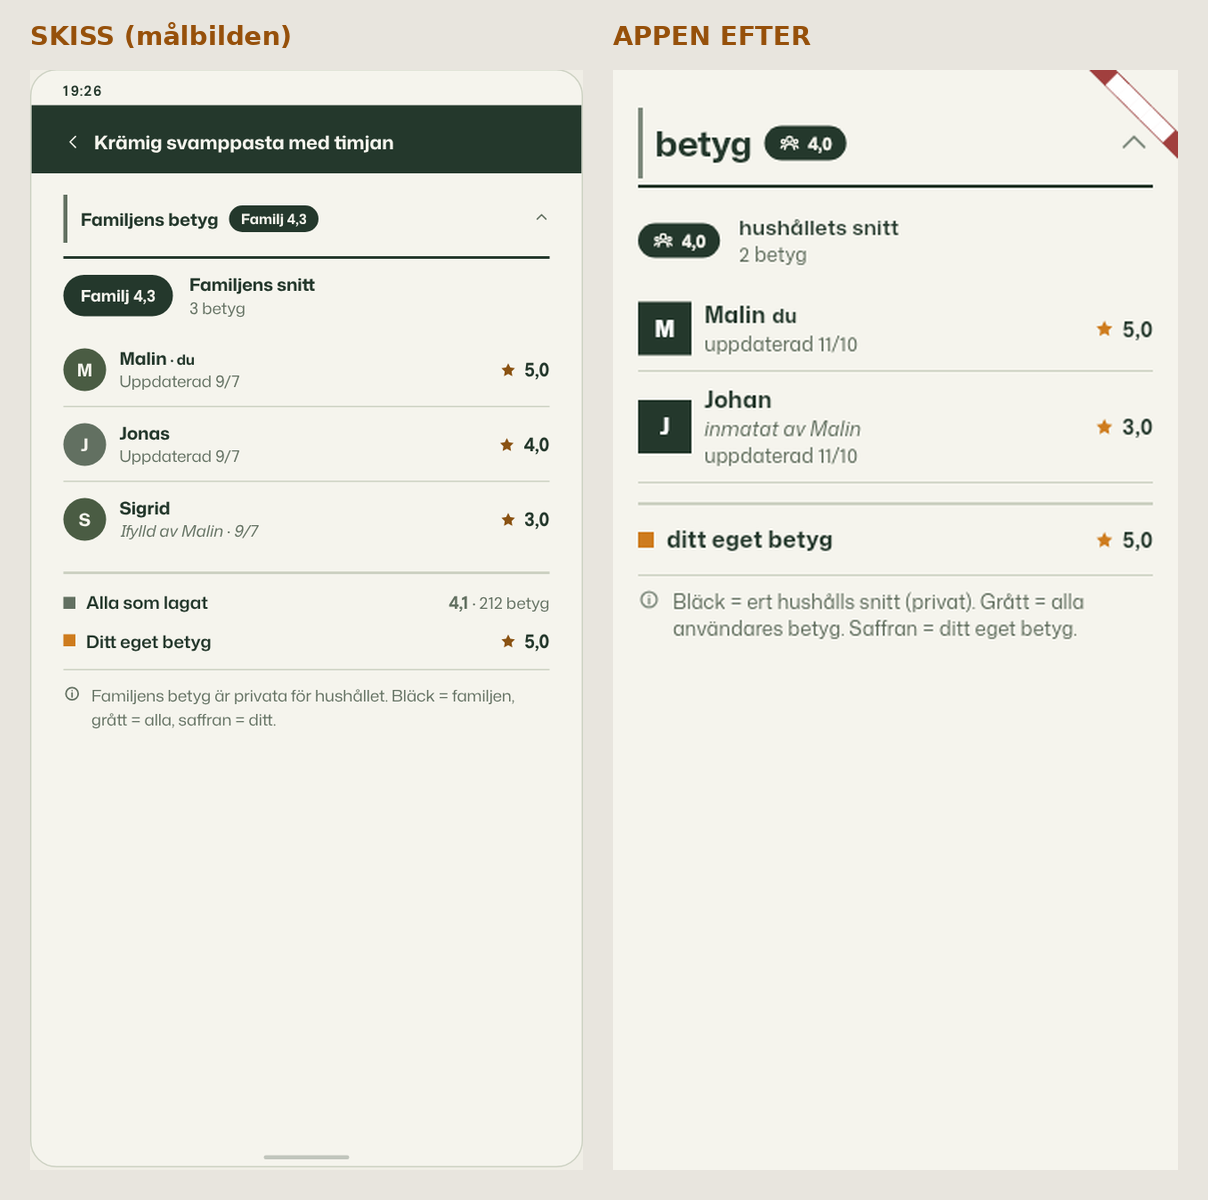
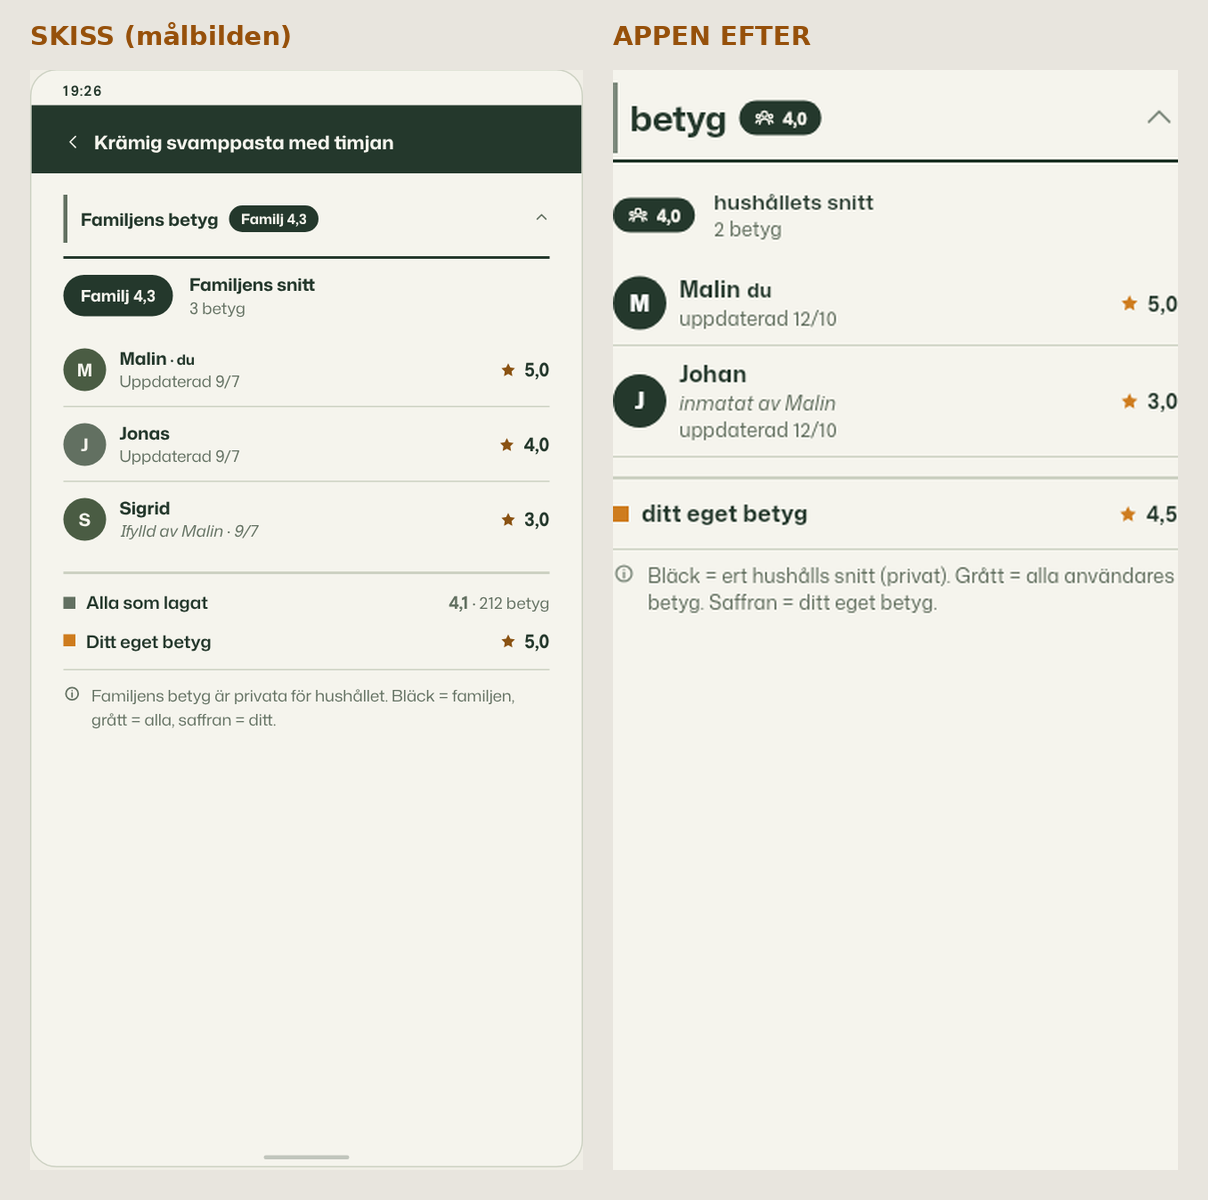
Profilikonen i familjevyerna blir rund som övriga profilikoner
FamilyAvatar var kvadratisk; betygsöversikten i receptdetaljen och övriga
familjevyer använder den delade komponenten, så alla får runda ikoner.
Bild 22 ritad om med runda ikoner.

Claude-Session: https://claude.ai/code/session_01DvrCDEcDaCCoCNLw7qcTFc

Changed region(s): [[0.4901, 0.0617, 0.9801, 0.555]]

diff --git a/test/widget/views/family/family_widgets_test.dart b/test/widget/views/family/family_widgets_test.dart
@@ -207,6 +207,21 @@ void main() {
       );
       expect(find.text('E'), findsOneWidget);
     });
+
+    testWidgets('is a circle, like every other profile icon', (tester) async {
+      await tester.pumpWidget(
+        createLocalizedTestApp(
+          child: const FamilyAvatar(name: 'Emma', color: Colors.purple),
+        ),
+      );
+      final box = tester.widget<Container>(
+        find.descendant(
+          of: find.byType(FamilyAvatar),
+          matching: find.byType(Container),
+        ),
+      );
+      expect((box.decoration! as BoxDecoration).shape, BoxShape.circle);
+    });
   });
 
   // BUT-2205: the row's own fill used to sit above the ink layer, so a

diff --git a/lib/views/family/family_widgets.dart b/lib/views/family/family_widgets.dart
@@ -36,7 +36,6 @@ Color parseAvatarColor(BuildContext context, String? hex) {
   return Theme.of(context).colorScheme.primary;
 }
 
-/// Square colored avatar with initials (SQUARE design language).
 class FamilyAvatar extends StatelessWidget {
   final String name;
   final Color color;
@@ -56,7 +55,7 @@ class FamilyAvatar extends StatelessWidget {
     return Container(
       width: size,
       height: size,
-      color: color,
+      decoration: BoxDecoration(color: color, shape: BoxShape.circle),
       alignment: Alignment.center,
       child: Text(
         initials ?? initialsFor(name),

diff --git a/design/fas0/andrade-filer.md b/design/fas0/andrade-filer.md
@@ -651,7 +651,7 @@ Därtill `fas0/andrade-filer.md`, som inte kan bära sin egen hash.
[8 lines of base64/hex data omitted]
